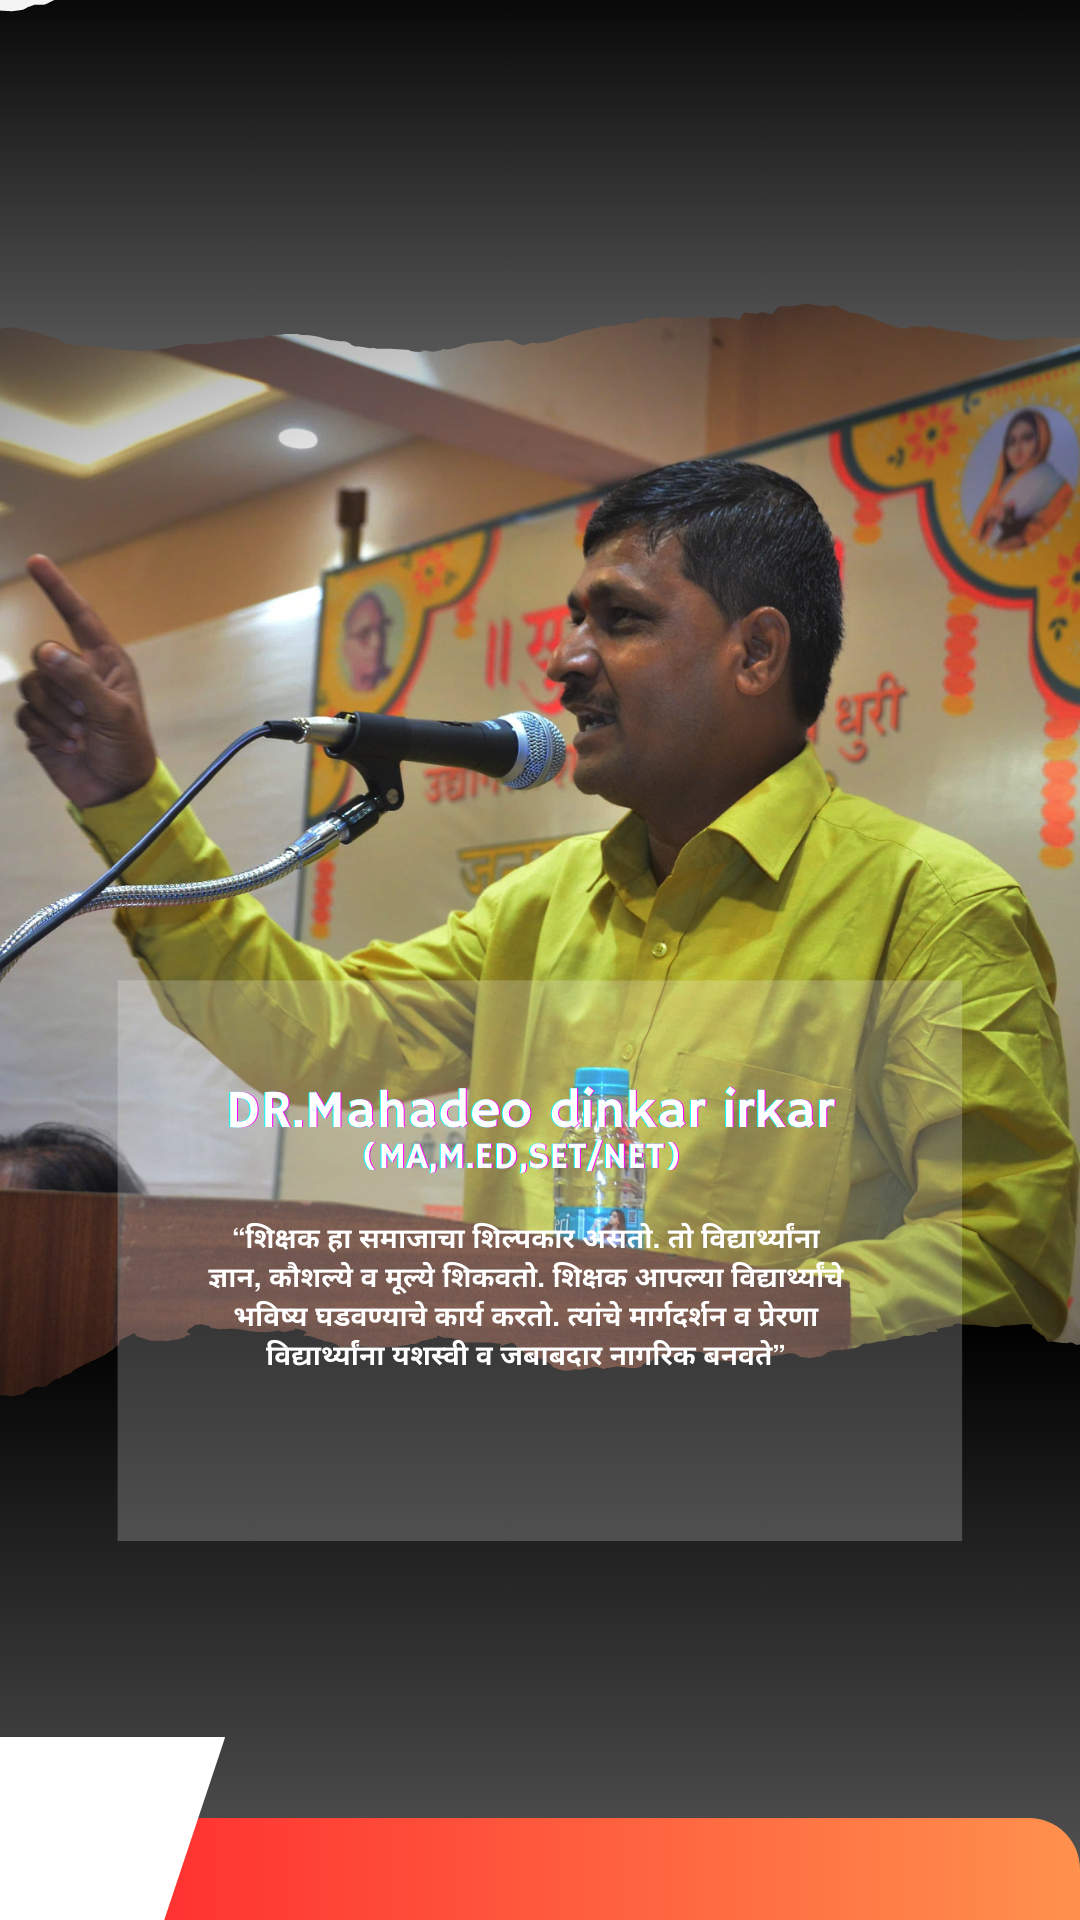
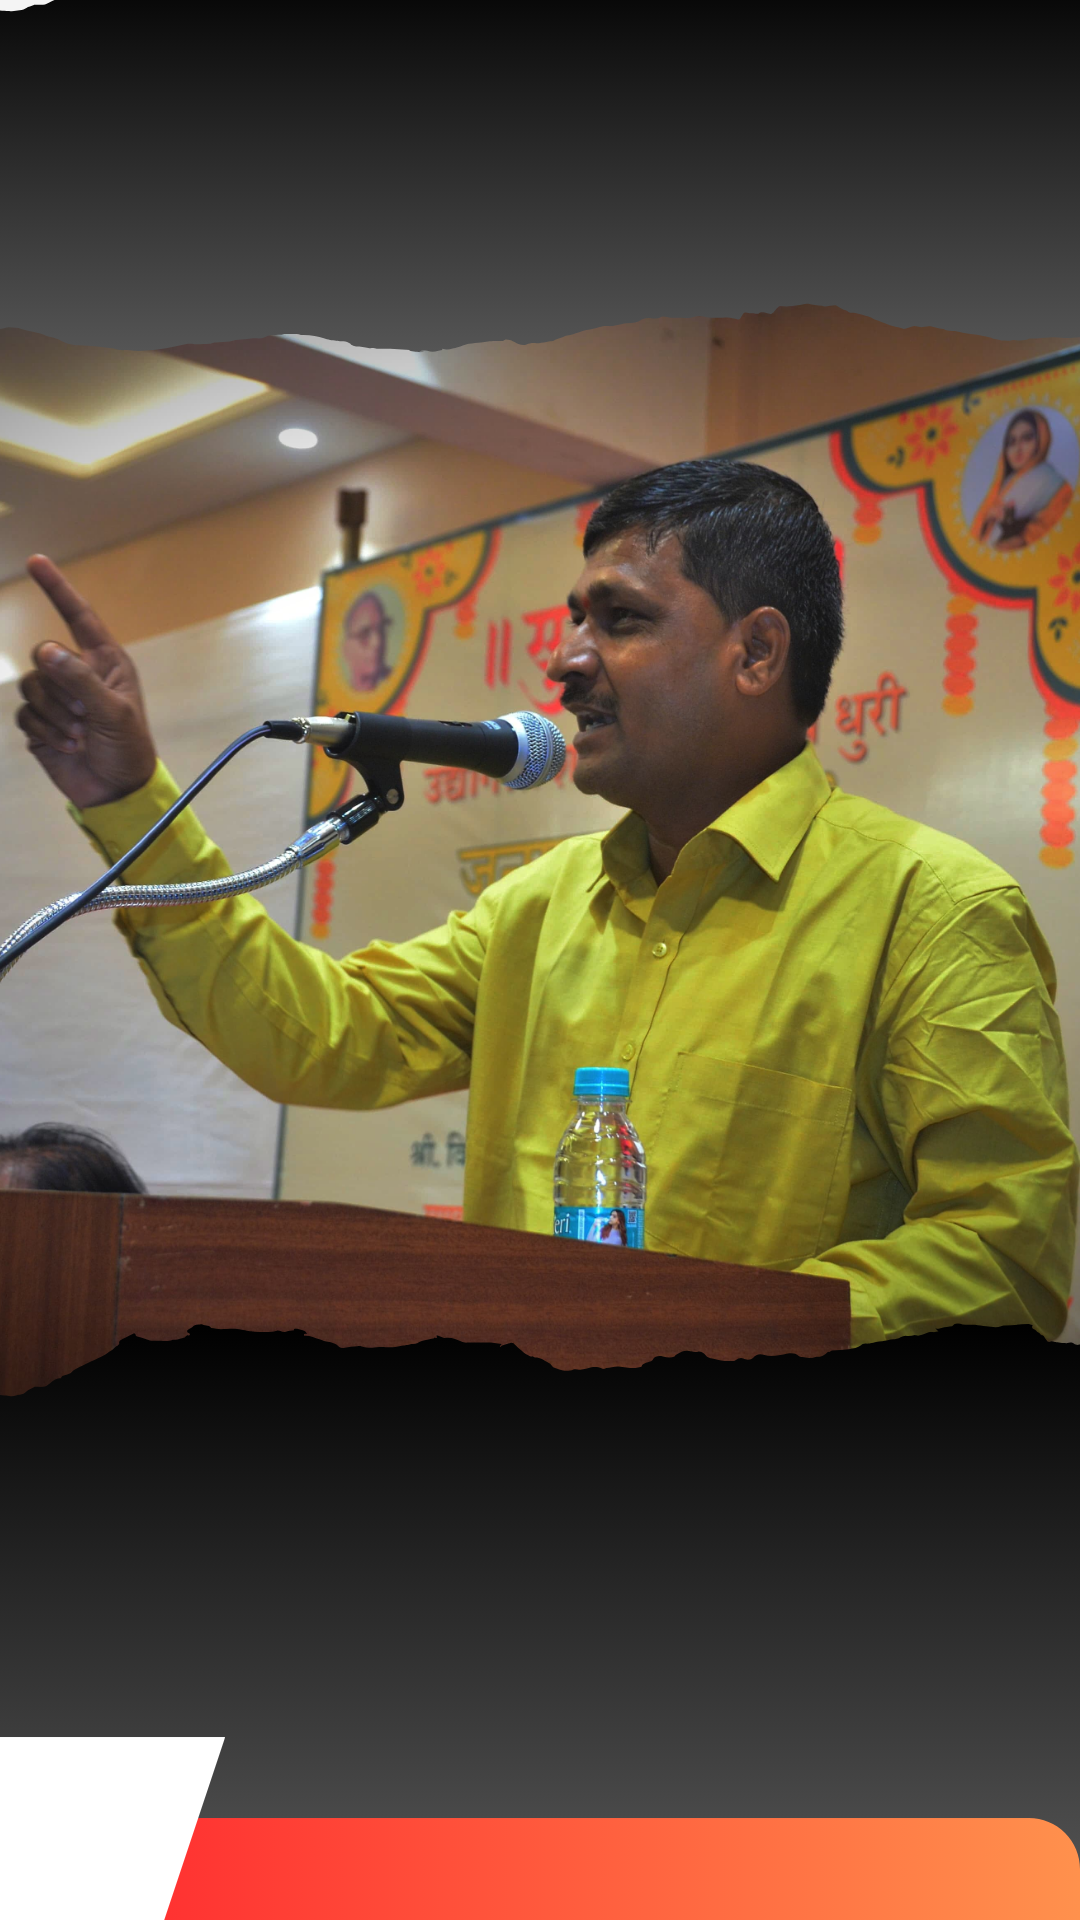
mobile view

Changed region(s): [[0.0917, 0.5, 0.9167, 0.8125]]

diff --git a/src/css/Home.css b/src/css/Home.css
@@ -278,6 +278,27 @@
         background-size: cover;
     } 
     .home_content{
-        display: none;
+        width: 85%;
+        left:30px;
+        top: 420px;
+        height: auto;
+        padding: 30px;
+        border-radius: 0px;
+        align-items: center;
+        /* justify-content: center; */
+        /* display: none; */
+    }
+    .home_content h1{
+        margin-left: 0px;
+        font-size: 2.5vh;
+    }
+    .home_content p{
+        /* margin-left: 0px; */
+        font-size: 1.8vh;
+        font-weight: 600;
+    }
+    .home_content h2{
+        font-size: 1.5vh;
+        /* margin-left: 0px; */
     }
 }
